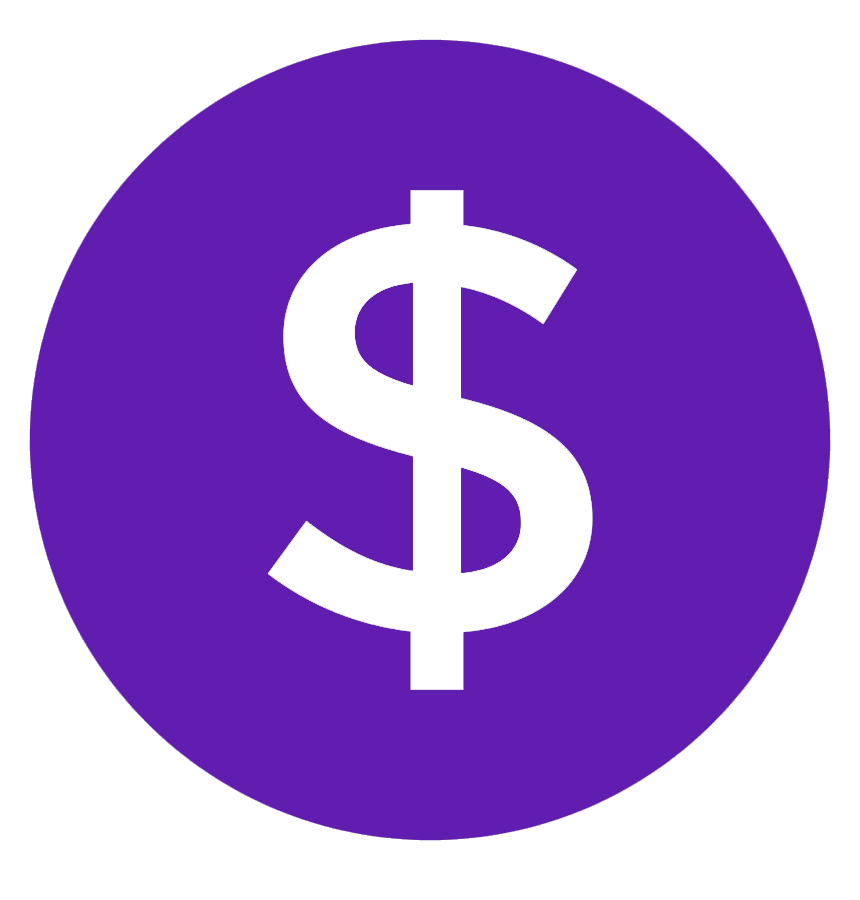
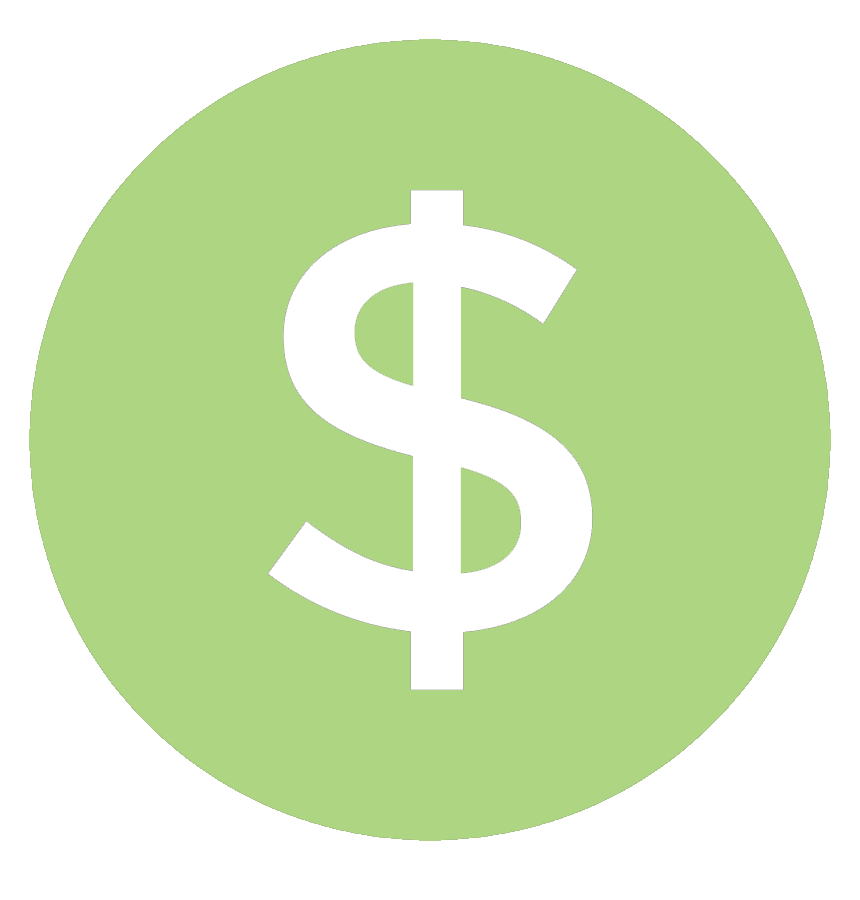
Web-site update

diff --git a/css/main.css b/css/main.css
@@ -31,7 +31,7 @@ body[data-theme='dark'], .dark-bg, .dark-mode-texts {
   --color-headings-3:     #fff;
   --color-texts:          rgba(255,255,255, 0.7);
   --color-texts-2:        rgba(255,255,255, 1);
-  --color-texts-3:        rgba(255,255,255, 0.7);
+  --color-texts-3:        #aed581;
   --border-color:         rgba(255,255,255, 0.08);
   --border-color-2:       rgba(255,255,255, 0.08);
   --border-color-3:       rgba(255,255,255, 0.08);
@@ -457,7 +457,7 @@ body[data-theme='light'] .dark-mode-texts .light-shape.default-shape, .light-mod
 }
 
 .shadow--orange {
-  box-shadow: 0 20px 20px #e8dbf7;
+  box-shadow: 0 20px 20px #dbf7e0;
 }
 
 .shadow--torch-red {
@@ -1078,21 +1078,21 @@ button:focus {
 
 .btn-primary {
   color: #000;
-  background-color: #611db0;
-  border-color: #611db0;
+  background-color: #aed581;
+  border-color: #aed581;
 }
 
 .btn-primary:hover {
   color: #000;
-  background-color: #8456b8;
-  border-color: #8456b8;
+  background-color: #c0e09c;
+  border-color: #c0e09c;
 }
 
 .btn-check:focus + .btn-primary, .btn-primary:focus {
   color: #000;
-  background-color: #8456b8;
-  border-color: #8456b8;
-  box-shadow: 0 0 0 0.2rem rgba(164, 29, 217, 0.5);
+  background-color: #aed581;
+  border-color: #aed581;
+  box-shadow: 0 0 0 0.2rem rgba(170, 233, 133, 0.473);
 }
 
 .btn-check:checked + .btn-primary,
@@ -3956,7 +3956,7 @@ body[data-theme="dark"] .reveal-header .nav-link-item,
 
 @media (min-width: 992px) {
   .card-testimonial--l3:hover {
-    box-shadow: 0 23px 45px rgba(80, 52, 252, 0.25);
+    box-shadow: 0 23px 45px rgba(129, 252, 52, 0.25);
   }
 }
 
@@ -6970,18 +6970,18 @@ ________________________________ */
 }
 
 .text-highlight.text-highlight--underline {
-  border-bottom: 6px solid #611db0;
+  border-bottom: 6px solid #aed581;
 }
 
 .typed-cursor {
-  color: #611db0;
+  color: #aed581;
 }
 
 /*
  =======> Home 3
 ---------------------------------*/
 .section-title--l3 .section-title__sub-heading {
-  color: #611db0;
+  color: #ffa726;
   font-size: 16px;
   font-weight: 500;
   letter-spacing: normal;
@@ -9731,7 +9731,7 @@ ________________________________ */
 }
 
 .welcome-content--l3__sub-title {
-  color: #611db0;
+  color: #ffa726;
   font-size: 16px;
   font-weight: 500;
   line-height: 1.75;
@@ -11315,7 +11315,7 @@ ________________________________ */
   position: absolute;
   width: 10px;
   height: 18px;
-  background-color: #611db0;
+  background-color: #ffa726;
   left: 10px;
   top: 4px;
 }

diff --git a/index.html b/index.html
@@ -105,7 +105,7 @@
                 </div>
                 <div class="col-xl-3 col-lg-4 col-md-6 col-sm-9 col-xs-10" data-aos="fade-up" data-aos-duration="500" data-aos-delay="400" data-aos-once="true">
                     <a href="#" class="card card--service">
-                        <div class="card--service__icon bg-op2--victoria text-victoria">
+                        <div class="card--service__icon bg-op2--yellow text-yellow">
                             <i class="fas fa-layer-group"></i>
                         </div>
                         <h2 class="card--service__title">Integration</h2>
@@ -114,7 +114,7 @@
                 </div>
                 <div class="col-xl-3 col-lg-4 col-md-6 col-sm-9 col-xs-10" data-aos="fade-up" data-aos-duration="500" data-aos-delay="400" data-aos-once="true">
                     <a href="#" class="card card--service">
-                        <div class="card--service__icon bg-op2--dodger-blue text-dodger-blue">
+                        <div class="card--service__icon bg-op2--yellow text-yellow">
                             <i class="fas fa-headphones"></i>
                         </div>
                         <h2 class="card--service__title">Customer <br class='d-xs-block' > Support</h2>
@@ -123,7 +123,7 @@
                 </div>
                 <div class="col-xl-3 col-lg-4 col-md-6 col-sm-9 col-xs-10" data-aos="fade-up" data-aos-duration="500" data-aos-delay="400" data-aos-once="true">
                     <a href="#" class="card card--service">
-                        <div class="card--service__icon bg-op2--primary text-primary">
+                        <div class="card--service__icon bg-op2--yellow text-yellow">
                             <i class="fas fa-bell"></i>
                         </div>
                         <h2 class="card--service__title">Customer satisfaction</h2>

diff --git a/css/bootstrap.css b/css/bootstrap.css
@@ -3160,21 +3160,21 @@ fieldset:disabled .btn {
 
 .btn-primary {
   color: #000;
-  background-color: #611db0;
-  border-color: #611db0;
+  background-color: #aed581;
+  border-color: #aed581;
 }
 
 .btn-primary:hover {
   color: #000;
-  background-color: #8456b8;
-  border-color: #8456b8;
+  background-color: #c7f097;
+  border-color: #c7f097;
 }
 
 .btn-check:focus + .btn-primary, .btn-primary:focus {
   color: #000;
-  background-color: #8456b8;
-  border-color: #8456b8;
-  box-shadow: 0 0 0 0.2rem rgba(164, 29, 217, 0.5);
+  background-color: #aed581;
+  border-color: #aed581;
+  box-shadow: 0 0 0 0.2rem rgba(178, 248, 146, 0.5);
 }
 
 .btn-check:checked + .btn-primary,
@@ -4281,23 +4281,23 @@ fieldset:disabled .btn {
 }
 
 .navbar-light .navbar-brand {
-  color: rgba(0, 0, 0, 0.9);
+  color: #ffa726;
 }
 
 .navbar-light .navbar-brand:hover, .navbar-light .navbar-brand:focus {
-  color: rgba(0, 0, 0, 0.9);
+  color: #ffa826c4;
 }
 
 .navbar-light .navbar-nav .nav-link {
-  color: rgba(0, 0, 0, 0.55);
+  color: #303030c4;
 }
 
 .navbar-light .navbar-nav .nav-link:hover, .navbar-light .navbar-nav .nav-link:focus {
-  color: rgba(0, 0, 0, 0.7);
+  color: #303030c4;;
 }
 
 .navbar-light .navbar-nav .nav-link.disabled {
-  color: rgba(0, 0, 0, 0.3);
+  color: #303030c4;;
 }
 
 .navbar-light .navbar-nav .show > .nav-link,
@@ -11331,7 +11331,7 @@ fieldset:disabled .btn {
 }
 
 .bg-orange {
-  background-color: #611db0 !important;
+  background-color: #aed581 !important;
 }
 
 .bg-shark {
@@ -11519,7 +11519,7 @@ fieldset:disabled .btn {
 }
 
 .text-yellow {
-  color: #fcdc00 !important;
+  color: #ffa726 !important;
 }
 
 .text-coral {
@@ -11583,7 +11583,7 @@ fieldset:disabled .btn {
 }
 
 .bg-op2--yellow {
-  background-color: rgba(252, 220, 0, 0.2);
+  background-color: #ffa7262e;
 }
 
 .bg-op2--orange {
